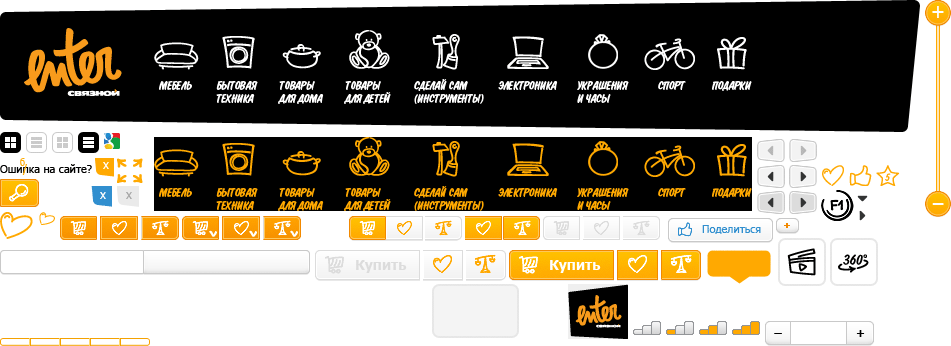
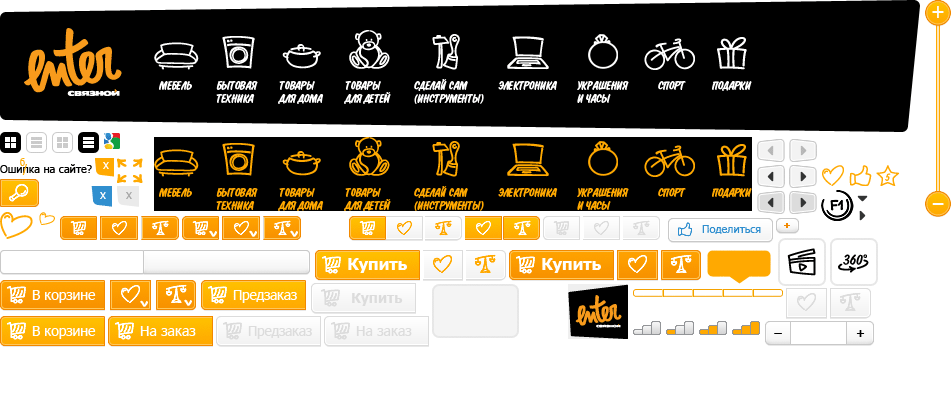
Three buttons in product card are fixed

diff --git a/web/js/dash.js b/web/js/dash.js
@@ -122,6 +122,25 @@ $(document).ready(function(){
 		//TODO ajax					
 		return false
 	})
+	$('.goodsbarbig .link1').click( function() {
+		var button = this
+		$.getJSON( $( button ).attr('href') +'/1', function(data) {			
+			if ( data.success && ltbx ) {
+				var tmpitem = { 
+					'id'   : $( button ).attr('href'),
+					'title': $('h1').html(),
+					'price': $('.goodsinfo .price').html(),
+					'img'  : $('.goodsphoto img').attr('src')
+				}
+				ltbx.getBasket( tmpitem ) 
+				$(button).attr('href', $('.lightboxinner .point2', parent).attr('href') )
+				$(button).unbind('click').addClass('active')				
+			}	
+		})
+		return false
+	})
+	// hidden buttons wishlist+compare
+	$('.goodsbarbig .link2, .goodsbarbig .link3').addClass('disabled').attr('href', '#').click( function(){ return false })
 	/* ---- */		
 	
 	

diff --git a/web/js/main.js b/web/js/main.js
@@ -318,7 +318,6 @@ $(document).ready(function(){
 /* top menu */
 $(document).ready(function(){
 	 
-/* IKEA-like hover */
 	var idcm          = null // setTimeout
 	var currentMenu = 0 // ref= product ID
 	
@@ -347,6 +346,6 @@ $(document).ready(function(){
 			}
 			currentMenu = 0
 		}		
-	}) 
-	/* ---- */	
+	}) 	
 });
+/* ---- */	

diff --git a/apps/main/modules/product/templates/_price.php b/apps/main/modules/product/templates/_price.php
@@ -1,4 +1,4 @@
 <?php if (false): ?>
 <span class="price"><?php echo $price ?></span>
 <?php endif ?>
-<strong class="font34"><?php echo $price ?> <span class="rubl">&#8399;</span></strong>
+<strong class="font34"><span class="price"><?php echo $price ?></span> <span class="rubl">&#8399;</span></strong>
